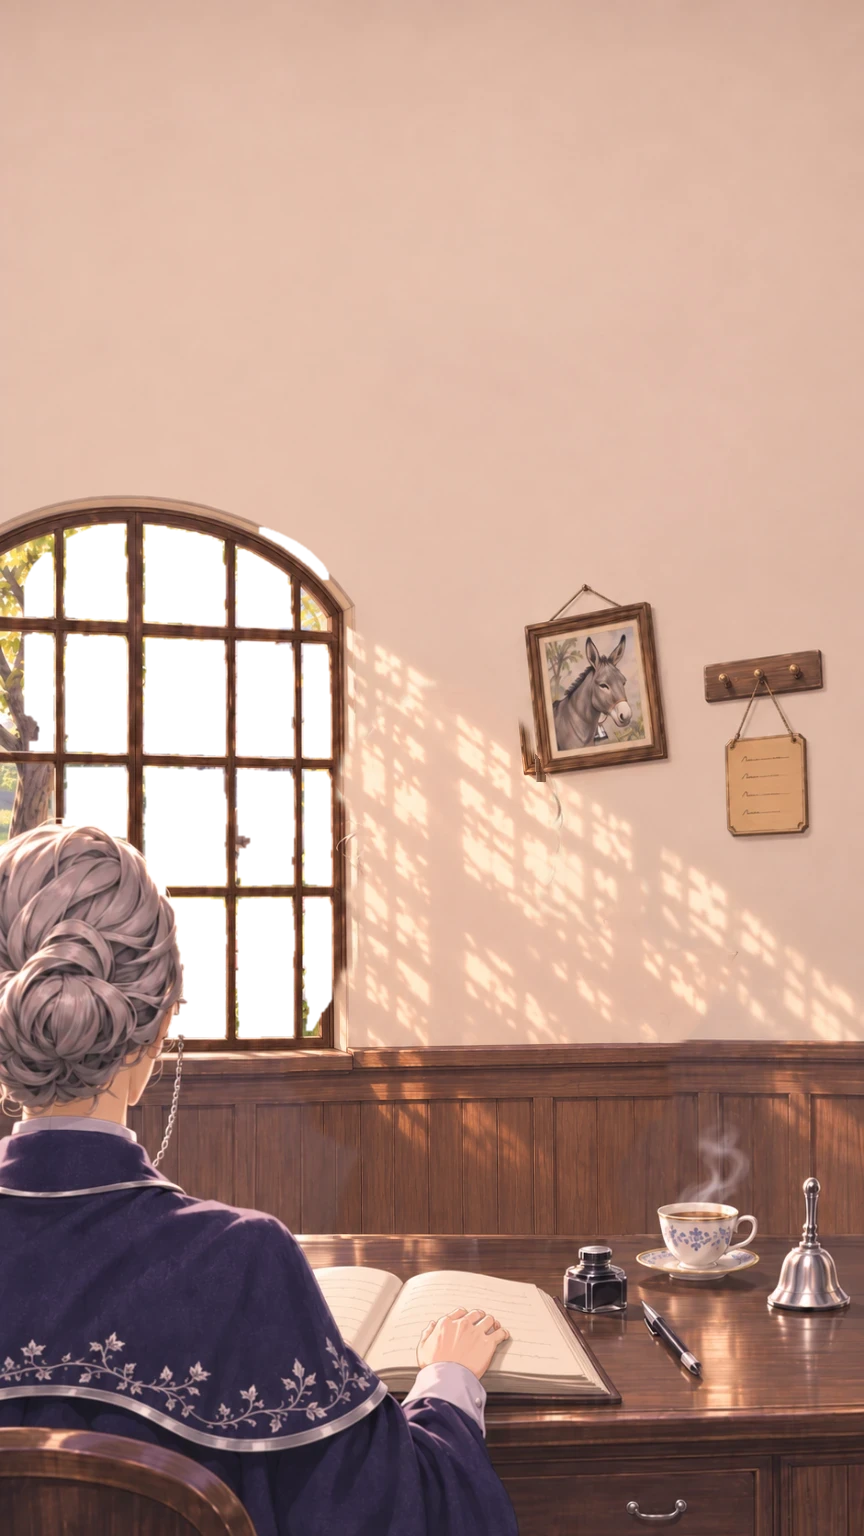
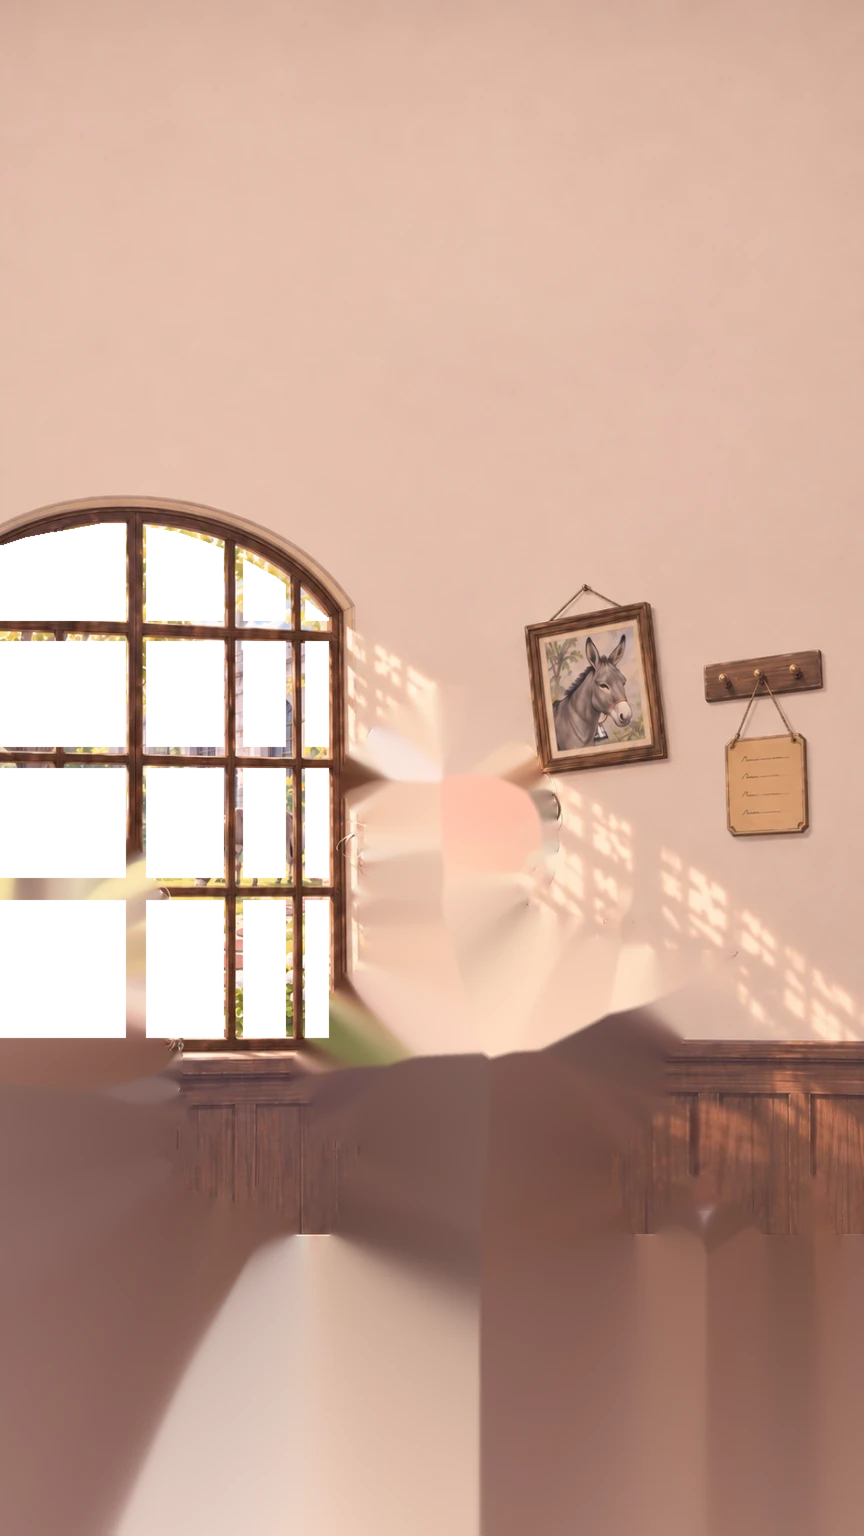
2.5D v5: 제임스 새 정원(여유분), 김 지운 층, 찻잔 김 셰이더
Claude-Session: https://claude.ai/code/session_014y7LTGpja5hZQT33UdpC4M

Changed region(s): [[0.0, 0.3438, 1.0, 1.0]]

diff --git a/office25d/index.html b/office25d/index.html
@@ -23,6 +23,7 @@
   <button type="button" id="mode">입력: 자동 흔들기</button>
   <button type="button" id="amp">세기 1×</button>
   <button type="button" id="layers" class="on">카메라형</button>
+  <button type="button" id="steam" class="on">찻잔 김</button>
   <button type="button" id="hide">단추 숨기기</button>
 </div>
 <script type="importmap">{ "imports": { "three": "./three.module.min.js" } }</script>
@@ -41,17 +42,52 @@ document.getElementById('view').appendChild(renderer.domElement);
 const scene = new THREE.Scene();
 const cam = new THREE.OrthographicCamera(0, W, 0, -H, -100, 100); // 위가 0, 아래로 -H
 const loader = new THREE.TextureLoader();
-function plane(url, z) {
+// rect: 캔버스 좌표의 [x, y, w, h]. 없으면 캔버스 전체. 키우고 옮기는 건 캔버스 가운데 기준(그룹)
+function plane(url, z, rect) {
   const tex = loader.load(url, () => { loaded++; if (loaded === 4) { document.getElementById('info').textContent = info0; draw(); } });
   tex.colorSpace = THREE.SRGBColorSpace; tex.anisotropy = 4;
-  const m = new THREE.Mesh(new THREE.PlaneGeometry(W, H), new THREE.MeshBasicMaterial({ map: tex, transparent: true }));
-  m.position.set(W / 2, -H / 2, z); scene.add(m); return m;
+  const [x, y, w, h] = rect || [0, 0, W, H];
+  const m = new THREE.Mesh(new THREE.PlaneGeometry(w, h), new THREE.MeshBasicMaterial({ map: tex, transparent: true }));
+  m.position.set(x + w / 2 - W / 2, -(y + h / 2) + H / 2, 0);
+  const g = new THREE.Group(); g.add(m); g.position.set(W / 2, -H / 2, z); scene.add(g); return g;
 }
 let loaded = 0;
-const info0 = '네 층 시험(창밖 추가) · 단추 숨긴 뒤 화면을 두 번 누르면 다시 나와요';
+const info0 = 'v5 · 새 정원 + 움직이는 찻잔 김 · 단추 숨긴 뒤 화면을 두 번 누르면 다시 나와요';
 // 배경은 움직일 때 가장자리가 드러나지 않게 살짝 키워 둔다 (배경도 움직이기 켰을 때만)
 // 네 층: 창밖(가장 멀다) / 방(유리 칸만 뚫림) / 리나 / 책상·안나
-const ext = plane('ext.webp', -30), bg = plane('room.webp', -20), rina = plane('rina.webp', -8), fg = plane('fg.webp', 0);
+// 정원: 제임스 v5 여유분 그림(432×640, 캔버스 x -40, y 470). 움직여도 왼쪽이 비지 않는다
+const ext = plane('garden.webp', -30, [-40, 470, 432, 640]), bg = plane('room.webp', -20), rina = plane('rina.webp', -8), fg = plane('fg.webp', 0);
+// 찻잔 김: 원화에서 지운 김을 셰이더로 그린다. 찻잔 입구(가운데 x 696, y 1205) 위로 두 가닥이 피어올라 흔들리며 사라진다
+// 리나 앞, 책상(찻잔) 뒤에 둬서 김 밑동은 찻잔 테두리에 가려진다
+const SW = 190, SH = 190, CUP = [696, 1212];
+const steamMat = new THREE.ShaderMaterial({
+  transparent: true, depthWrite: false,
+  uniforms: { t: { value: 0 }, a: { value: 1 } },
+  vertexShader: 'varying vec2 v; void main(){ v = uv; gl_Position = projectionMatrix * modelViewMatrix * vec4(position, 1.0); }',
+  fragmentShader: `
+    varying vec2 v; uniform float t; uniform float a;
+    float h(vec2 p){ return fract(sin(dot(p, vec2(127.1, 311.7))) * 43758.5453); }
+    float n(vec2 p){ vec2 i = floor(p), f = fract(p); f = f*f*(3.0-2.0*f);
+      return mix(mix(h(i), h(i+vec2(1,0)), f.x), mix(h(i+vec2(0,1)), h(i+vec2(1,1)), f.x), f.y); }
+    float wisp(float x, float y, float ph, float sp){
+      float sway = sin(y*6.0 - t*sp + ph) * 0.16 * (0.25 + y) + sin(y*13.0 - t*sp*1.7 + ph*2.0) * 0.04 * y + (n(vec2(y*3.0 - t*0.4, ph)) - 0.5) * 0.30 * y;
+      float wdt = 0.03 + 0.07 * y;
+      float d = (x - 0.5 - sway) / wdt;
+      return exp(-d*d);
+    }
+    void main(){
+      float x = v.x, y = v.y;
+      float s = wisp(x + 0.05, y, 0.0, 1.3) * 0.9 + wisp(x - 0.06, y, 2.4, 1.05) * 0.7;
+      float br = 0.55 + 0.45 * n(vec2(x*6.0, y*5.0 - t*0.9));
+      float fade = smoothstep(0.0, 0.10, y) * (1.0 - smoothstep(0.35, 0.95, y));
+      float alpha = clamp(s * br * fade * 0.62 * a, 0.0, 1.0);
+      gl_FragColor = vec4(vec3(1.0, 0.98, 0.95), alpha);
+    }`
+});
+const steam = new THREE.Mesh(new THREE.PlaneGeometry(SW, SH), steamMat);
+steam.position.set(CUP[0], -(CUP[1] - SH / 2), -4); scene.add(steam);
+let steamOn = true;
+document.getElementById('steam').addEventListener('click', (e) => { steamOn = !steamOn; steam.visible = steamOn; e.target.classList.toggle('on', steamOn); kick(); });
 // 화면 채우기: 게임 처음 화면처럼 cover, 아래쪽 80% 기준
 function fit() {
   const vw = window.innerWidth, vh = window.innerHeight; renderer.setSize(vw, vh);
@@ -103,10 +139,13 @@ function tick(t) {
   rina.position.x = W / 2 + cx * (cam2 ? LIMIT.rinaCam : LIMIT.rina[0]) * amp; rina.position.y = -H / 2 - cy * LIMIT.rina[1] * amp * rm;
   bg.position.x = W / 2 - cx * LIMIT.bg[0] * amp * bm; bg.position.y = -H / 2 + cy * LIMIT.bg[1] * amp * bm;
   ext.position.x = W / 2 - cx * LIMIT.ext[0] * amp * bm; ext.position.y = -H / 2 + cy * LIMIT.ext[1] * amp * bm;
+  steamMat.uniforms.t.value = t / 1000;
   draw();
-  if (mode === 'auto' || Math.abs(tx - cx) > 0.002 || Math.abs(ty - cy) > 0.002) requestAnimationFrame(tick); else running = false;
+  if (mode === 'auto' || steamOn || Math.abs(tx - cx) > 0.002 || Math.abs(ty - cy) > 0.002) requestAnimationFrame(tick); else running = false;
 }
-function draw() { renderer.render(scene, cam); }
+// 김이 켜져 있으면 계속 그리되 초당 30장 정도로
+let lastDraw = 0;
+function draw() { const now = performance.now(); if (now - lastDraw < 30 && running) return; lastDraw = now; renderer.render(scene, cam); }
 document.addEventListener('visibilitychange', () => { if (!document.hidden && mode === 'auto') kick(); });
 fit(); kick();
 </script>
